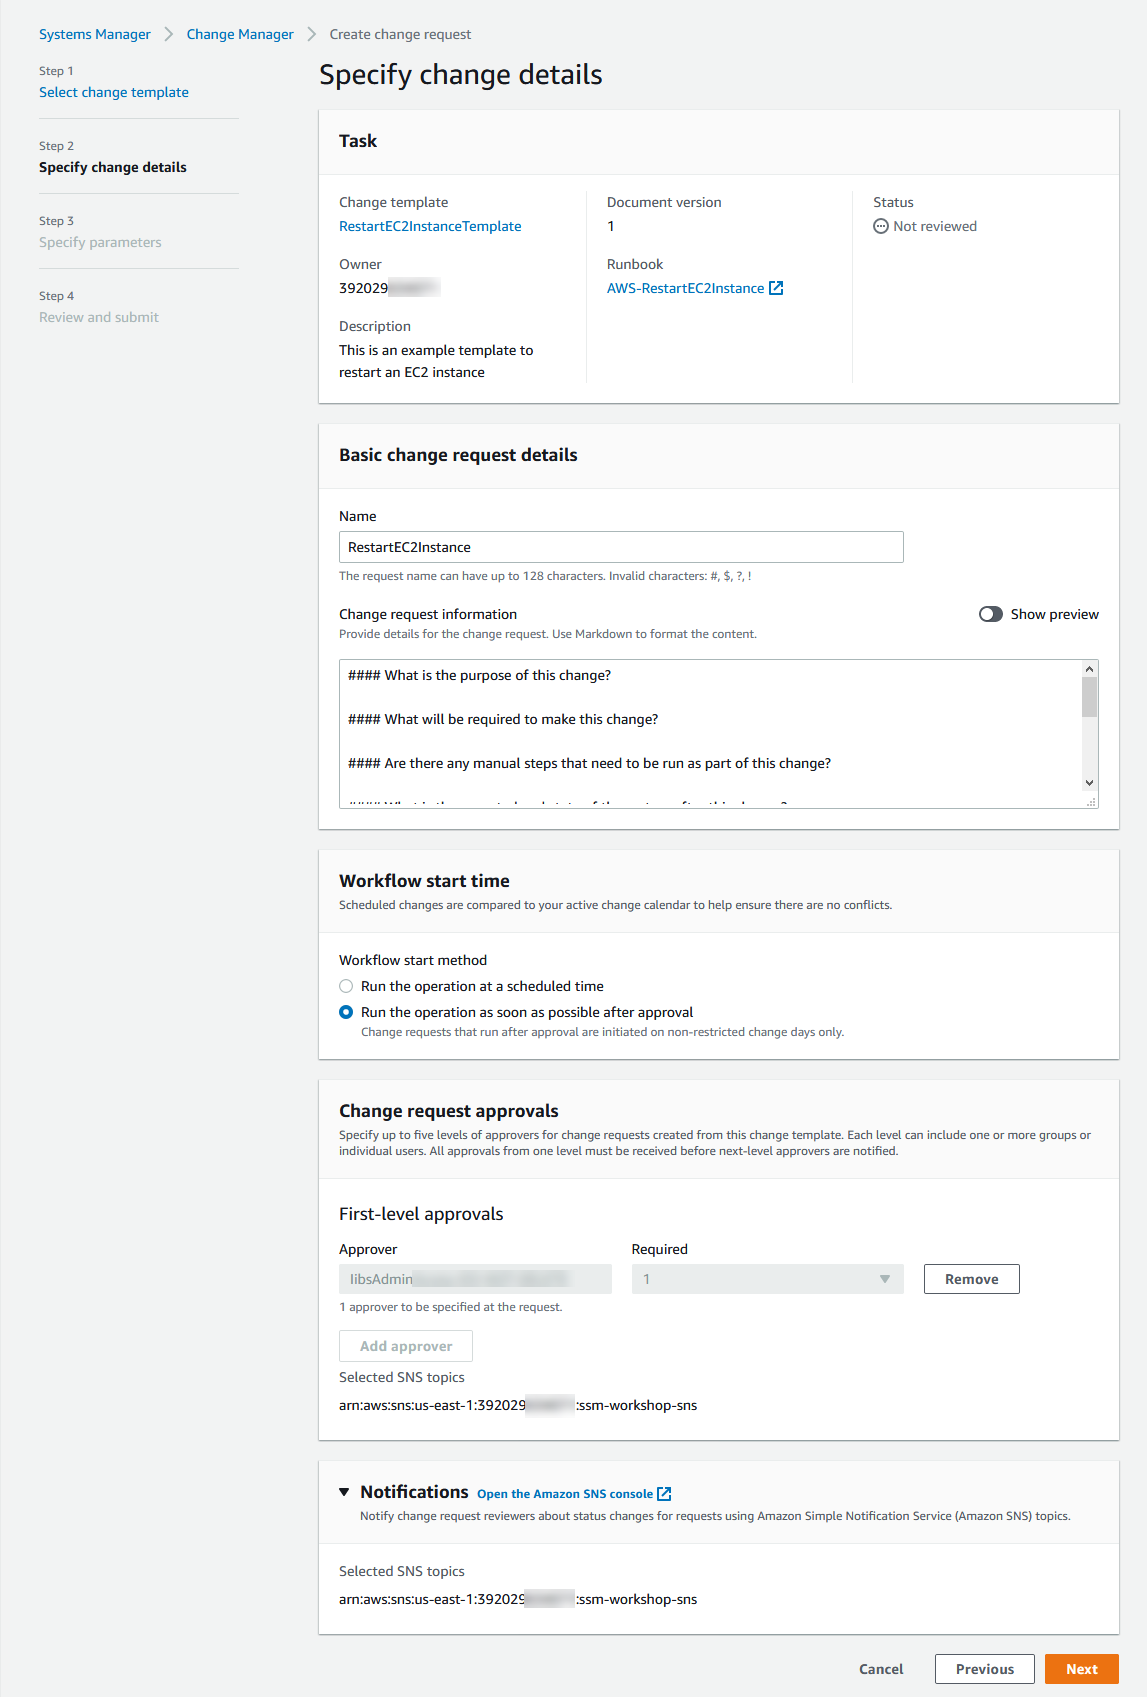
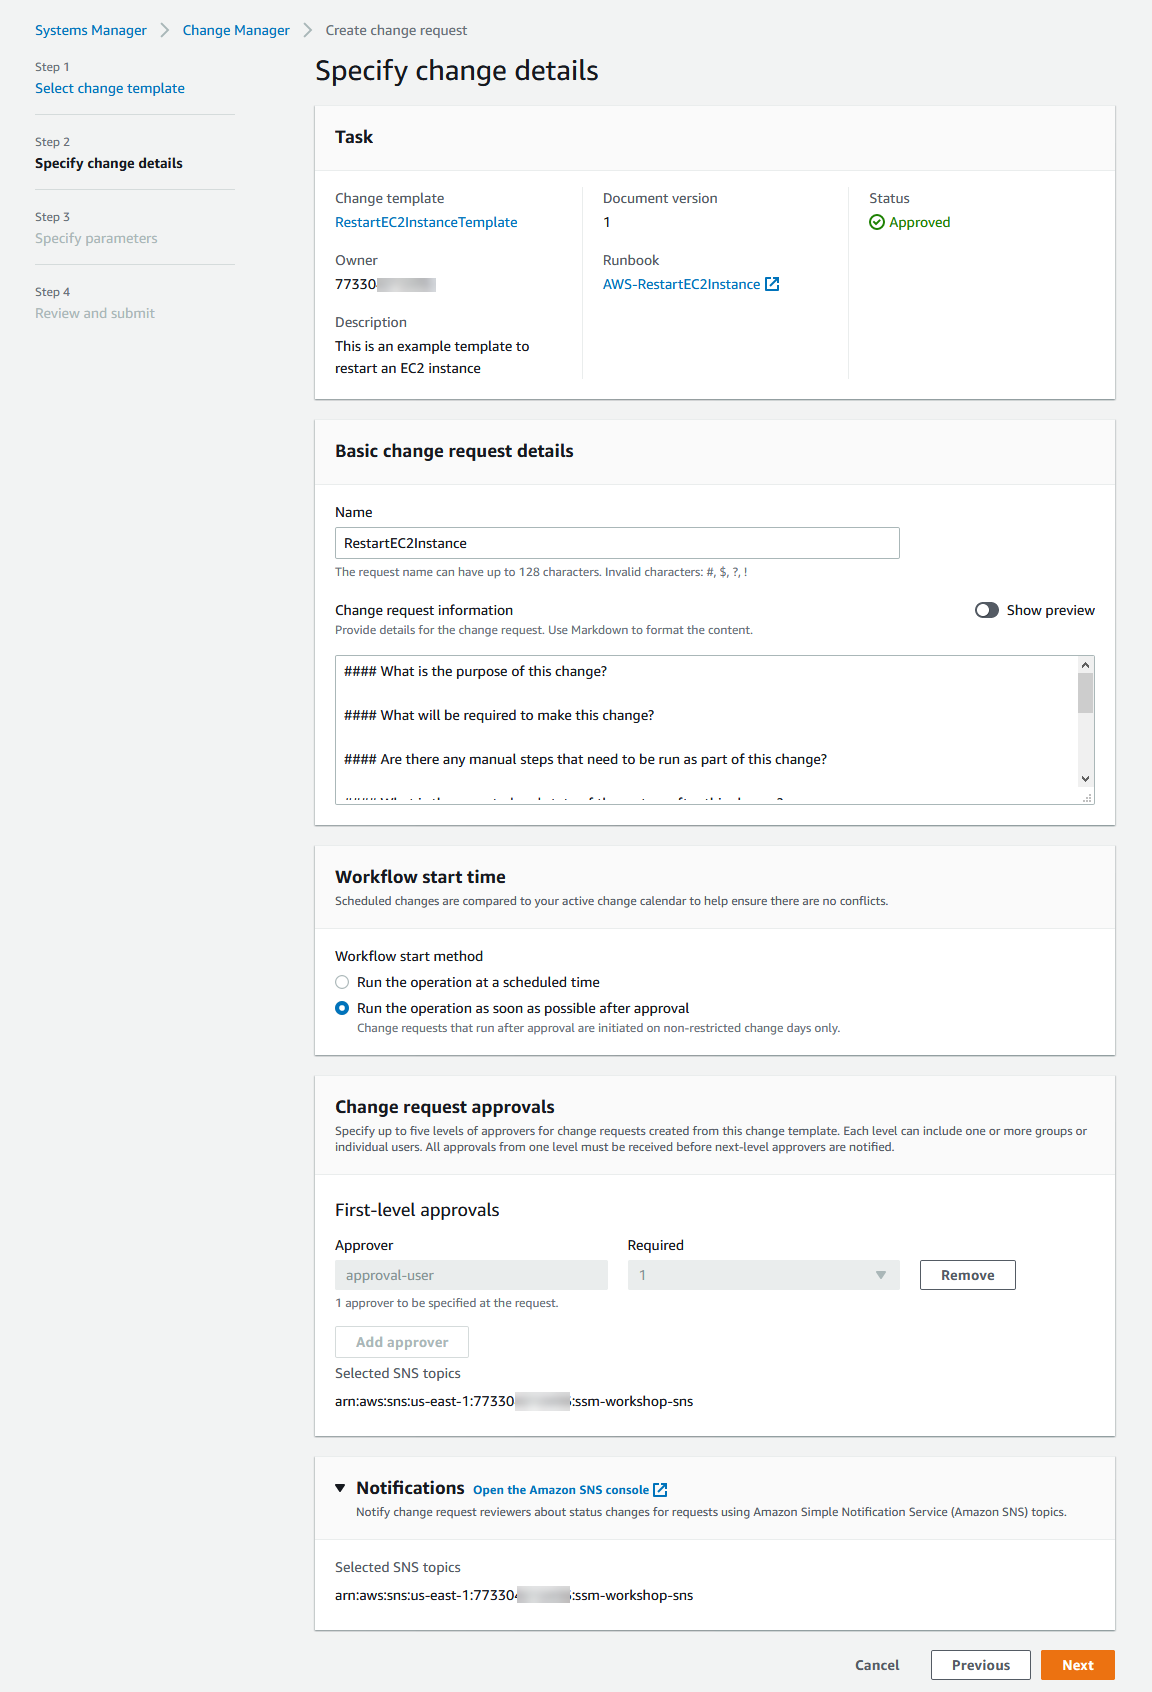
Updates

diff --git a/episode-04-step-03-enable-change-management.md b/episode-04-step-03-enable-change-management.md
@@ -82,13 +82,13 @@ Next we must create an IAM service role, or *assume role*, that allows the servi
 
 Perform the task in this procedure the first time you access Change Manager. You can update these configuration settings later by returning to Change Manager and choosing **Edit** on the **Settings** tab. 
 
-1. Open the AWS Systems Manager console at https://console.aws.amazon.com/systems-manager/.
-1. In the navigation pane, choose **Change Manager**.
-1. On the service home page, choose **Set up delegated account**.
+1. Open the [Change Manager console](https://console.aws.amazon.com/systems-manager/change-manager?region=us-east-1#/dashboard/requests).
+1. Choose the **Settings** tab.
+1. Choose **Edit**.
 1. For **User identity management**, choose **AWS Identity and Access Management (IAM)**.
-1. For **Template reviewer notification**, choose **Create an Amazon SNS topic**, enter ```sm-workshop-sns``` for the topic name, and choose **Add notification**.
+1. For **Template reviewer notification**, choose **Create an Amazon SNS topic**, enter ```ssm-workshop-sns``` for the topic name, and choose **Add notification**.
 
-    ![](../media/change-manager-sns.png)
+    ![](/media/change-manager-sns.png)
 
 1. For **Template reviewers** select **Add**, choose the **approval-user** we created previously, and select **Add approvers**.
 
@@ -97,36 +97,12 @@ Perform the task in this procedure the first time you access Change Manager. You
 1. For **Approvers for change freeze events** select **Add**, choose the **approval-user** we created previously, and choose **Add approvers**.
 1. In the **Best practices** section, do the following:
 
-    - For **Check Change Calendar for restricted change events**, choose **Enabled**.
-    - For **SNS topic for approvers for closed events**, select **Create an Amazon SNS topic**, enter ```sm-workshop-sns```, and choose **Add notification**.
-    - Leave **Require monitors for all templates** as the default non-enabled state. **Note** In a real world environment, you can ensure that all templates for your organization specify an Amazon CloudWatch alarm to monitor your change operation.
-    - For **Require template review and approval before**, choose **Enabled**.
+    - Leave the default option of disabled for **Check Change Calendar for restricted change events**, **SNS topic for approvers for closed events**, and **Require monitors for all templates** 
+    - For **Require template review and approval before use**, choose **Enabled**.
 
-1. Choose **Submit**.
+    ![](/media/change-manager-settings.png)
 
-<!-- ### Configure Change Manager
-
-1. Open the AWS Systems Manager console at https://console.aws.amazon.com/systems-manager/.
-1. In the navigation pane, choose [**Change Manager**](https://console.aws.amazon.com/systems-manager/change-manager).
-1. Choose **Set up Change Manager**.
-
-    ![](/media/change-manager-set-up.png)
-    
-1. Choose the **Settings** tab.
-1. Choose **Edit** and perform the following actions:
-    
-    - In the **User identity management** section, choose **AWS Identity and Access Management (IAM)**.
-    - Skip the sections **Template reviewer notification**, **Template reviewers**, and **Approvers for change freeze events**.
-        - **Note**: In a real-world environment, it is best practice to specify template reviewers and approvers for change freeze events.
-    - In the **Best practices** section, review the available options to enable or disable.
-        - To specify that Change Manager checks a calendar in Change Calendar to make sure changes are not blocked by scheduled events, you would select the Enabled check box for **Check Change Calendar for restricted change events**, and then select the calendar to check for restricted events from the Change Calendar list. 
-        - If you want to ensure that all templates for your organization or account specify an Amazon CloudWatch alarm to monitor your change operation, you would select the Enabled check box for **Require monitors for all templates**. 
-        - To ensure that no change requests are created, and no runbook workflows run, without being based on a template that has been reviewed and approved, you would select the Enabled check box for **Require template review and approval before use**.
-    - Ensure **Require template review and approval before use** is not enabled.
-    
-    ![](/media/review-template-disabled.png)
-
-1. Choose **Save**. -->
+1. Choose **Save**.
 
 ### Create a change template
 
@@ -140,9 +116,9 @@ Perform the task in this procedure the first time you access Change Manager. You
 1. For **Runbook**, select ```AWS-RestartEC2Instance``` from the drop-down menu.
 1. Leave the default content for **Template information**.
 1. For **Change request approvals**, select **Add approvers** under **First-level approvals**, and select **Request specified approvers**.
-1. For **Amazon SNS topic for approval notifications**, choose **Create an Amazon SNS topic**, enter ```ssm-workshop-sns``` for the name, and choose **Add notification**.
+1. For **Amazon SNS topic for approval notifications**, choose **Select an existing Amazon SNS topic**, choose ```ssm-workshop-sns``` from the drop-down list, and choose **Add notification**.
 1. Skip the **Monitoring** section.
-1. For **Notifications**, choose **Enter an SNS Amazon Resource Name (ARN)**, enter the ARN of the SNS topic created for the approval notification, and choose **Add notification**.
+1. For **Notifications**, choose **Select an existing Amazon SNS topic**, choose ```ssm-workshop-sns``` from the drop-down list, and choose **Add notification**.
     
     - The SNS Topic ARN should be similar to the following: ```arn:aws:sns:us-east-1:1234567890:ssm-workshop-sns```.
 
@@ -153,6 +129,23 @@ Perform the task in this procedure the first time you access Change Manager. You
 1. Select **Submit for review**.
 1. (Optionally) Choose the **Templates** tab, choose the **RestartEC2InstanceTemplate** template, and choose **View details**. You can then navigate between the various tabs to review the template details, tasks included, change requests created using the template, and the version history of the template.
 
+### Approve the change template
+
+1. Open a new incognito browser tab and use the AWS Management console sign-in URL noted above in the **Create IAM user for template reviews and change request approval** section.
+1. For **IAM user name**, enter ```approval-user```.
+1. For **Password**, enter the password you created previously and choose **Sign in**.
+
+    ![](/media/iam-console-sign-in.png)
+
+1. Navigate to the [**AWS Systems Manager Change Manager** console](https://console.aws.amazon.com/systems-manager/change-manager).
+1. Select the **Templates** tab, and open the **RestartEC2InstanceTemplate** template.
+    
+    - **Note**: Alternatively, open the [change template directly using this link](https://console.aws.amazon.com/systems-manager/change-manager?region=us-east-1#/change-template/view-details/RestartEC2InstanceTemplate/details).
+
+1. Navigate between the various tabs to see the template details, tasks, change requests associated, and version history of the template.
+1. Once complete, choose **Approve**.
+1. Optionally enter any comments and choose **Approve**.
+
 ### Create a change request
 
 1. Choose **Create request**.
@@ -160,12 +153,12 @@ Perform the task in this procedure the first time you access Change Manager. You
 1. For **Name**, enter ```RestartEC2Instance```.
 1. Optionally fill out the **Change request information** section.
 1. For **Workflow start time**, leave the default **Run the operation as soon as possible after approval**.
-1. For **Change request approvals**, choose **Add approver**, select the current IAM user or role you are logged in with, and choose **Add approvers**.
+1. For **Change request approvals**, choose **Add approver**, select **approval-user**, and choose **Add approvers**.
 1. Choose **Next**.
 
     ![](/media/change-manager-change-details.png)
 
-1. For **Automation assume role**, choose the **AWS-SystemsManager-AutomationExecutionRole** created previously.
+1. For **Automation assume role**, choose the **change-manager-automation-role** created previously.
 1. For **Deployment location**, leave the default value as **Apply change to this account**.
 1. For **Deployment targets**, perform the following steps:
     - For **Target resources**, choose **Multiple resources**.
@@ -180,10 +173,36 @@ Perform the task in this procedure the first time you access Change Manager. You
 
 ### Approve a change request
 
+1. Open a new browser and use the AWS Management console sign-in URL noted above in the **Task 1: Create IAM user for template reviews and change request approval** section.
+1. For **IAM user name**, enter ```approval-user```.
+1. For **Password**, enter the password you created previously and choose **Sign in**.
 
+    ![](/media/iam-console-sign-in.png)
+
+1. Navigate to the [**AWS Systems Manager Change Manager** console](https://console.aws.amazon.com/systems-manager/change-manager).
+1. Select the **Requests** tab, select the **RestartEC2Instance** change request and choose **View details**.
+1. Navigate between the various tabs to see the request details and tasks for the submitted change request.
+1. Choose **Approve**, optionally enter any comments, and choose **Approve**.
 
 ### Review the change request results
 
+1. Open the AWS Systems Manager console at https://console.aws.amazon.com/systems-manager/.
+1. In the navigation pane, choose **Change Manager**.
+1. Select the **Requests** tab, select the **RestartEC2Instance** change request and choose **View details**.
+1. Select the **Timeline** tab, to see the timeline for the change request process.
+1. On the **Timeline** page, note the **Execution ID**.
+
+    ![](/media/change-manager-timeline.png)
+
+1. Select the **Task** tab and select the **Execution ID** to review the steps of the Automation workflow.
+
+    ![](/media/change-manager-task.png)
+
+1. Review the status and details of each step performed.
+
+    ![](/media/change-manager-automation.png)
+
+For more information on Change Manager, see [AWS Systems Manager Change Manager](https://docs.aws.amazon.com/systems-manager/latest/userguide/change-manager.html).
 
 ## Next Section
 
